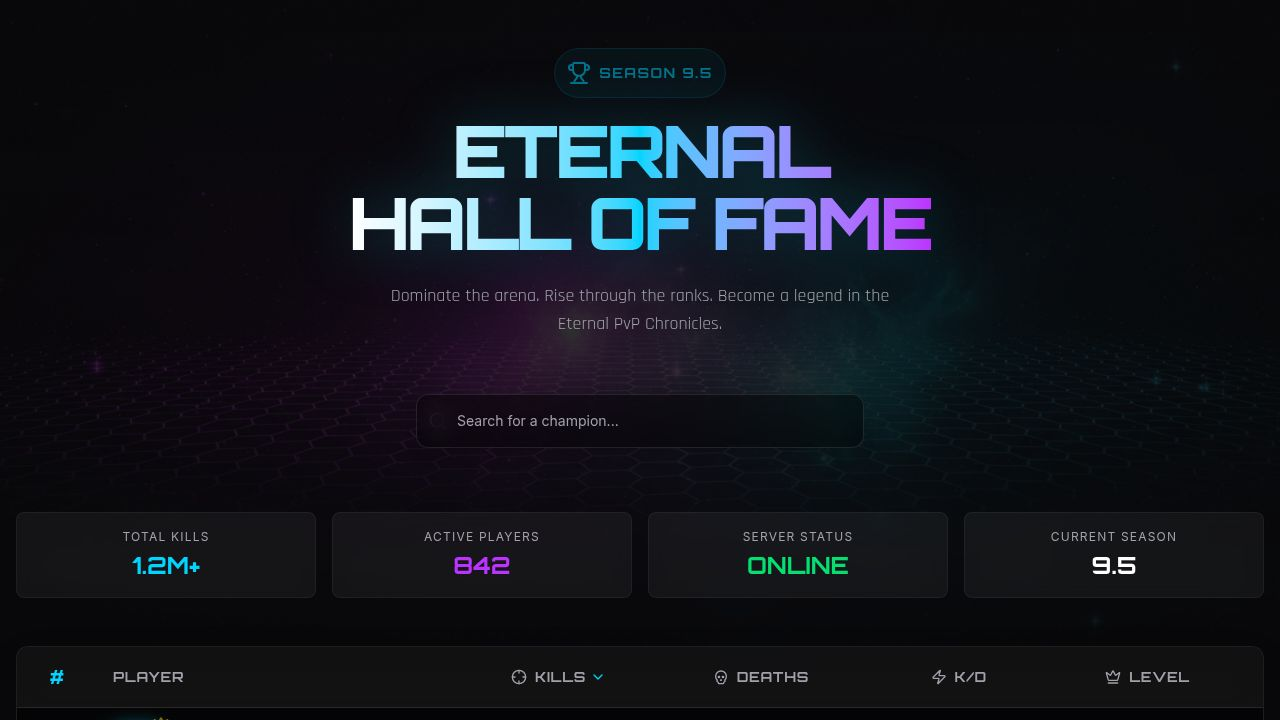
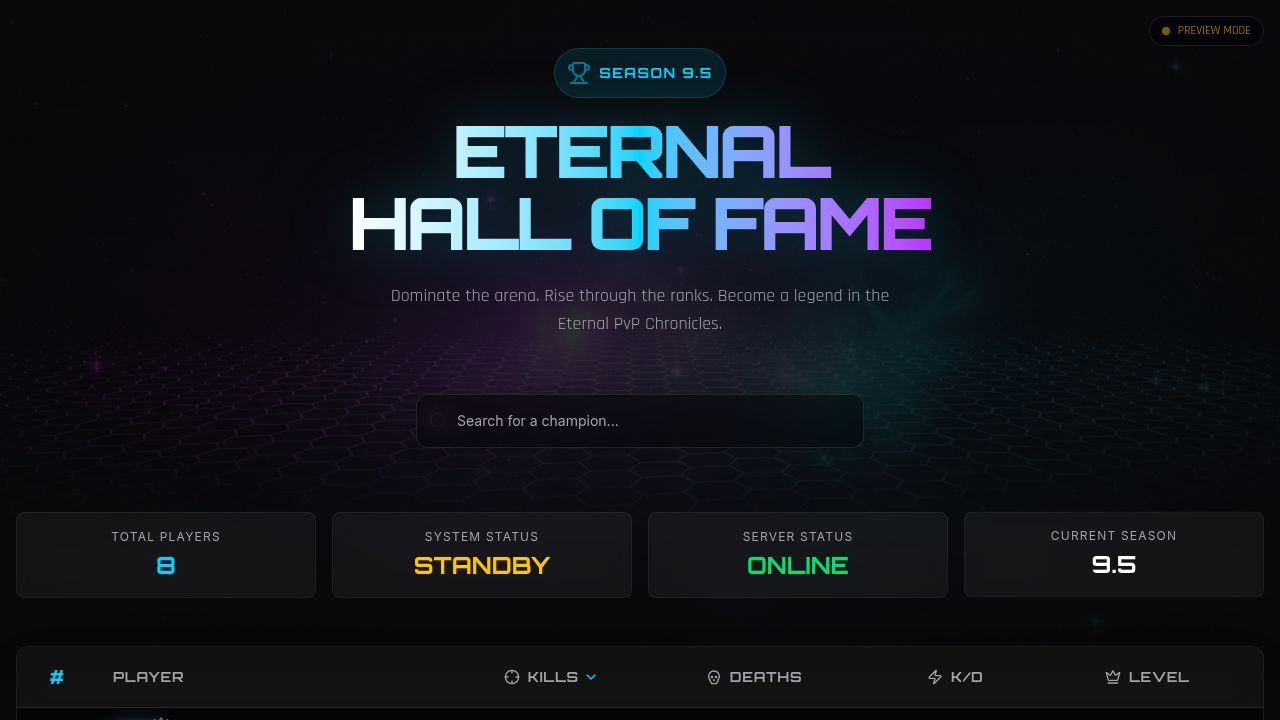
Connect to live player data and display status
Integrate socket.io-client for real-time leaderboard updates and display connection status, fetching live data via API and socket.

Replit-Commit-Author: Agent
Replit-Commit-Session-Id: 4f81f176-0199-4e43-8c1b-b8d5e325cb70
Replit-Commit-Checkpoint-Type: full_checkpoint
Replit-Commit-Event-Id: ab644918-acdf-4b43-8ff6-67ca2f8ef317
Replit-Commit-Screenshot-Url: https://storage.googleapis.com/screenshot-production-us-central1/7b1e602b-101f-4443-bc90-54b3cb0017ee/4f81f176-0199-4e43-8c1b-b8d5e325cb70/0vVZuYD
Replit-Helium-Checkpoint-Created: true

diff --git a/client/src/pages/home.tsx b/client/src/pages/home.tsx
@@ -1,18 +1,64 @@
-import React, { useState } from 'react';
+import React, { useState, useEffect } from 'react';
 import { MOCK_PLAYERS, Player } from '@/data/mockData';
 import { LeaderboardTable } from '@/components/LeaderboardTable';
 import { PlayerMobileCard } from '@/components/PlayerMobileCard';
 import { PlayerDetailsModal } from '@/components/PlayerDetailsModal';
-import { Search, Trophy, Database, CheckCircle2 } from 'lucide-react';
+import { Search, Trophy, Database, CheckCircle2, Loader2, Wifi, WifiOff } from 'lucide-react';
 import bgImage from '@assets/generated_images/deep_space_nebula_with_cybernetic_grid_overlay.png';
-import { motion } from 'framer-motion';
+import { motion, AnimatePresence } from 'framer-motion';
+import { io } from 'socket.io-client';
 
 export default function Home() {
   const [searchTerm, setSearchTerm] = useState('');
   const [selectedPlayer, setSelectedPlayer] = useState<Player | null>(null);
+  const [players, setPlayers] = useState<Player[]>(MOCK_PLAYERS);
+  const [isConnected, setIsConnected] = useState(false);
+  const [isUsingRealData, setIsUsingRealData] = useState(false);
+
+  useEffect(() => {
+    // 1. Initial Fetch via REST API
+    const fetchPlayers = async () => {
+      try {
+        const res = await fetch('/api/players');
+        if (res.ok) {
+          const data = await res.json();
+          if (data.ok && Array.isArray(data.players) && data.players.length > 0) {
+            setPlayers(data.players);
+            setIsUsingRealData(true);
+          }
+        }
+      } catch (error) {
+        console.log("API not available, using mock data");
+      }
+    };
+    
+    fetchPlayers();
+
+    // 2. Real-time updates via Socket.IO
+    const socket = io();
+
+    socket.on('connect', () => {
+      setIsConnected(true);
+    });
+
+    socket.on('disconnect', () => {
+      setIsConnected(false);
+    });
+
+    socket.on('leaderboard:update', (updatedPlayers: Player[]) => {
+      if (Array.isArray(updatedPlayers) && updatedPlayers.length > 0) {
+        setPlayers(updatedPlayers);
+        setIsUsingRealData(true);
+      }
+    });
+
+    return () => {
+      socket.disconnect();
+    };
+  }, []);
   
-  const filteredPlayers = MOCK_PLAYERS.filter(p => 
-    p.name.toLowerCase().includes(searchTerm.toLowerCase())
+  const filteredPlayers = players.filter(p => 
+    (p.name || '').toLowerCase().includes(searchTerm.toLowerCase())
   );
 
   return (
@@ -83,6 +129,28 @@ export default function Home() {
             Dominate the arena. Rise through the ranks. Become a legend in the Eternal PvP Chronicles.
           </motion.p>
 
+          {/* Connection Status Indicator */}
+          <motion.div
+             initial={{ opacity: 0 }}
+             animate={{ opacity: 1 }}
+             className="absolute top-4 right-4 flex items-center gap-2 px-3 py-1.5 rounded-full bg-black/40 border border-white/10 backdrop-blur-md text-xs font-mono"
+          >
+            {isUsingRealData ? (
+              <>
+                <div className="relative flex h-2 w-2">
+                  <span className="animate-ping absolute inline-flex h-full w-full rounded-full bg-green-400 opacity-75"></span>
+                  <span className="relative inline-flex rounded-full h-2 w-2 bg-green-500"></span>
+                </div>
+                <span className="text-green-400">LIVE DATA</span>
+              </>
+            ) : (
+              <>
+                <div className="h-2 w-2 rounded-full bg-yellow-500/50"></div>
+                <span className="text-yellow-500/80">PREVIEW MODE</span>
+              </>
+            )}
+          </motion.div>
+
           {/* Search Bar */}
           <motion.div 
             initial={{ y: 20, opacity: 0 }}
@@ -106,8 +174,8 @@ export default function Home() {
         {/* Stats Summary */}
         <div className="grid grid-cols-2 md:grid-cols-4 gap-4 mb-12">
           {[
-            { label: 'Total Kills', value: '1.2M+', color: 'text-primary' },
-            { label: 'Active Players', value: '842', color: 'text-secondary' },
+            { label: 'Total Players', value: players.length.toLocaleString(), color: 'text-primary' },
+            { label: 'System Status', value: isConnected ? 'CONNECTED' : 'STANDBY', color: isConnected ? 'text-green-400' : 'text-yellow-400' },
             { label: 'Server Status', value: 'ONLINE', color: 'text-green-400' },
             { label: 'Current Season', value: '9.5', color: 'text-white' },
           ].map((stat, i) => (
